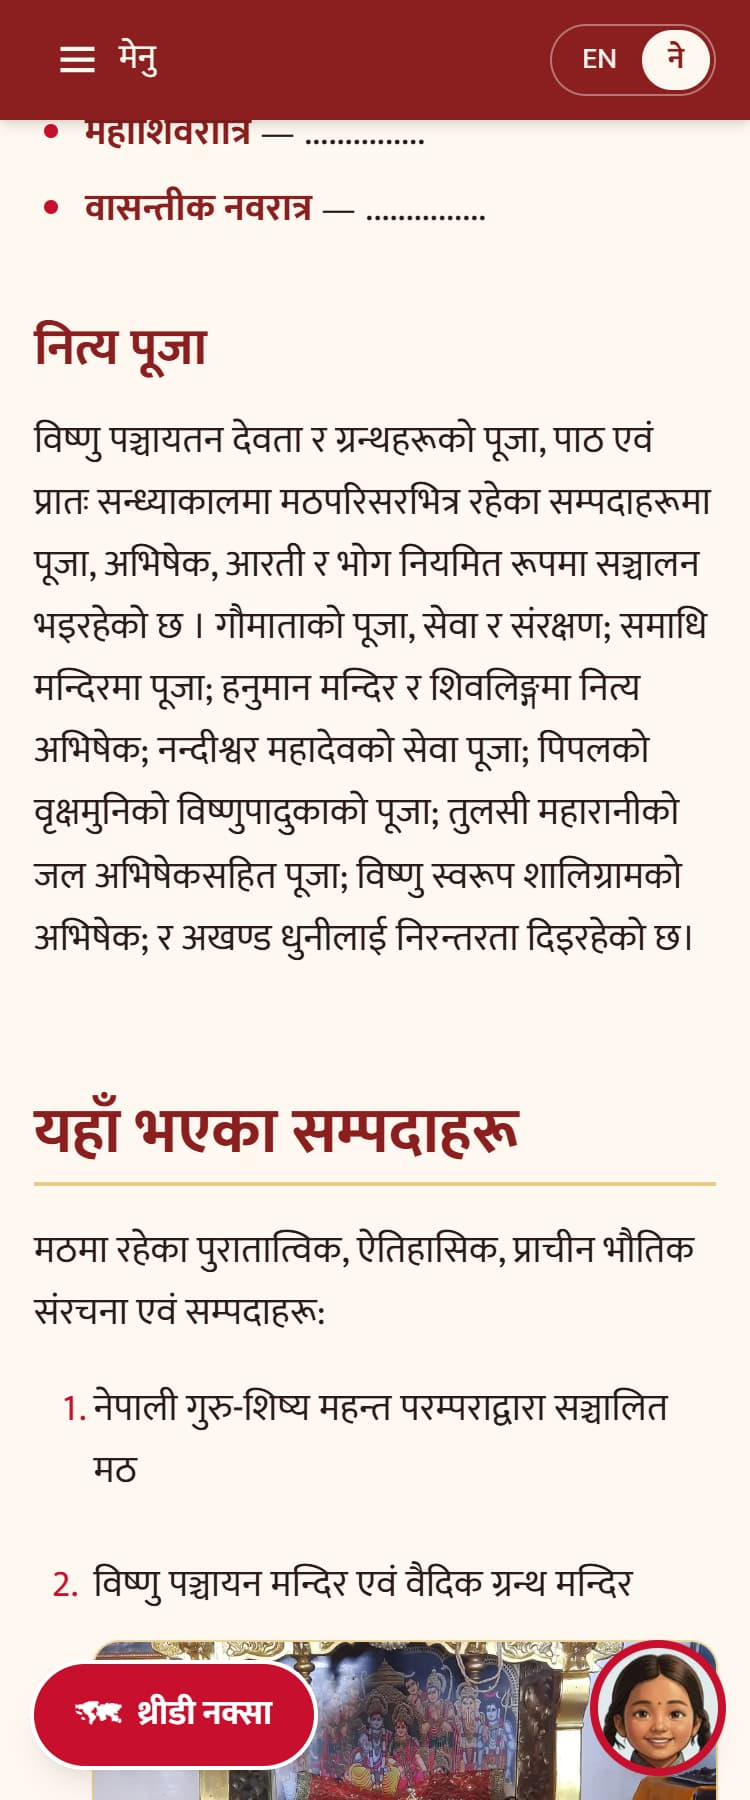
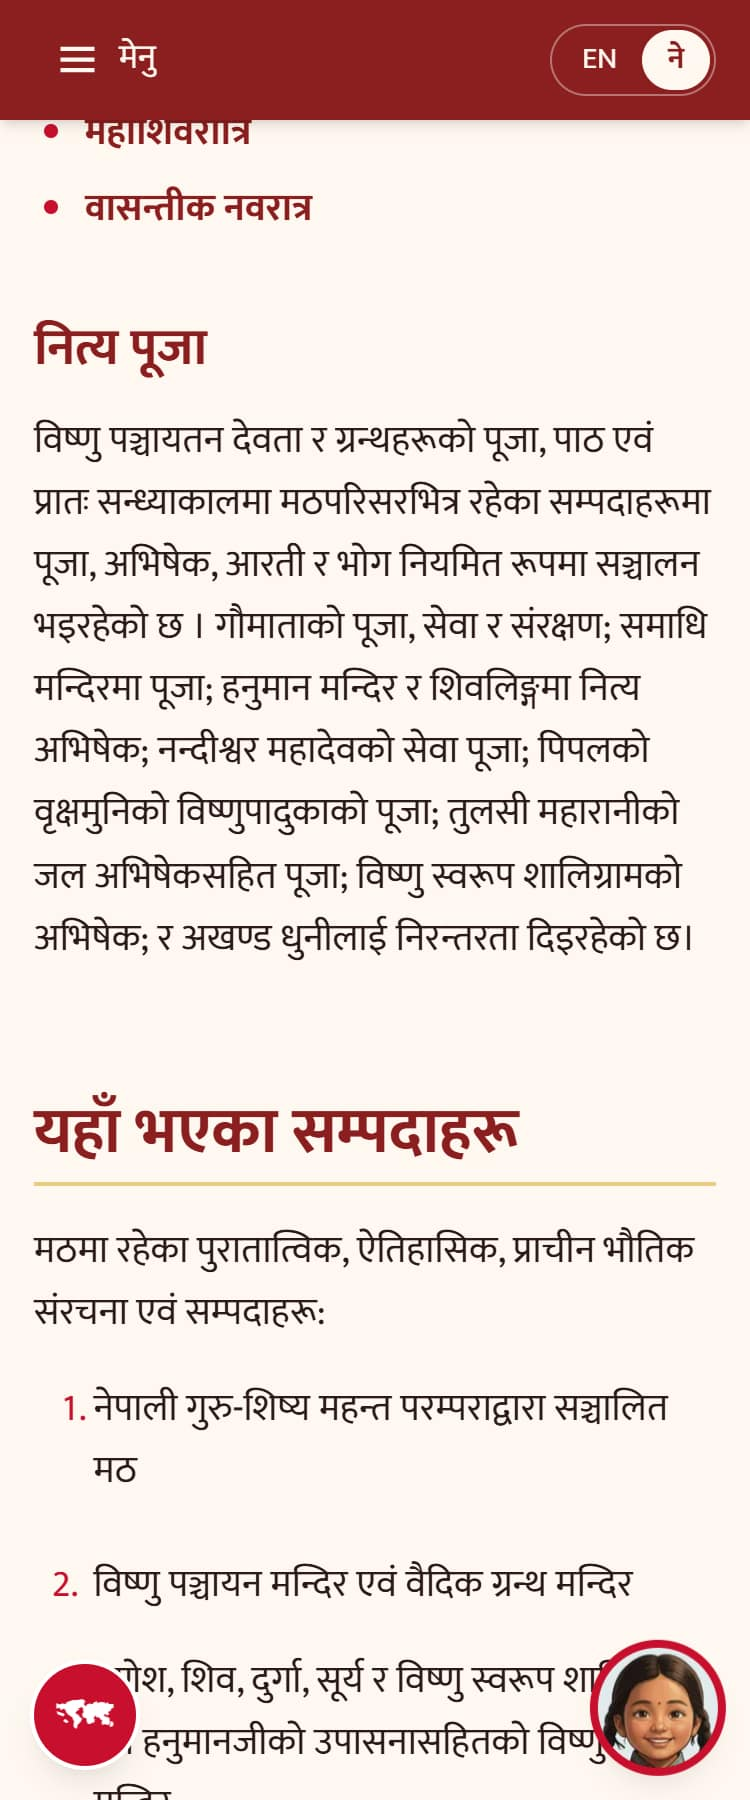
Heritage list descriptions, dot-placeholder check, ward illustration, alignment fixes, small 3D Map button
- Heritage list ("यहाँ भएका सम्पदाहरू" / "The Heritage Here"):
  - items 2–9 show their photo's gallery description under the title,
    word for word in the page language;
  - item 11 is title only (its photo's description doesn't clearly
    match), via `"description": false` in content/section-photos.json;
  - the Tulsi Math keeps its sub-shrines under the description;
  - photo tops are level with the titles.
- Festivals: Krishna Ashtami, Mahashivaratri and Vasantik Navaratri show
  their name only; the "………" descriptions are removed, on instruction.
- Dot placeholders ("………", "....", a lone "…") now fail check-content
  and verify-output (scripts/dot-placeholders.ts). npm run dev is
  unaffected.
- Home: the ward illustration (raw-data wardlogo1.png, via
  optimize-images; ward.json → illustration, EN/NE alt) beside the
  About Ward No. 16 text from 768 px, below it on phones.
- Alignment:
  - the "Other heritage" section now matches the home sections
    (py-14 md:py-20);
  - the map page uses the same page padding as gallery and contact;
  - the map sidebar text is back on the content edge.
  The audit reports 0 issues on all pages, at 375/768/1440, EN + NE.
- 3D Map button: a round 3rem icon on phones (label kept as its
  accessible name), a compact pill from 768 px.

Checked: typecheck, lint, strict `npm run build` + verify-output.
Browser checks 67/67, no page errors. Screenshots:
docs/screenshots/heritage-photos/.

Changed region(s): [[0.0613, 0.9022, 0.9813, 1.0], [0.92, 0.9022, 0.9507, 0.9333]]

diff --git a/src/app/[lang]/page.tsx b/src/app/[lang]/page.tsx
@@ -11,7 +11,7 @@ import SectionDivider from "@/components/SectionDivider";
 import { getCredits, getHeritageList, getHomeConfig, getWard } from "@/lib/content";
 import { naniCreditText } from "@/lib/credits";
 import { byCount, getDictionary, isLocale, siteNameList } from "@/lib/i18n";
-import { coverImage, findSiteImage, type SiteImage } from "@/lib/images";
+import { coverImage, findSiteImage, imageSet, type SiteImage } from "@/lib/images";
 import type { Heritage } from "@/types/heritage";
 
 const GALLERY_PREVIEW_COUNT = 6;
@@ -53,6 +53,7 @@ export default async function HomePage({ params }: PageProps<"/[lang]">) {
     coverImage(heritages[0]);
   const preview = galleryPreview(home.galleryPreview, heritages);
   const credits = getCredits();
+  const illustration = ward.illustration ? imageSet(ward.illustration.files) : null;
   // "Nani character by …"; null in production builds until the creator is set in content/credits.json.
   const naniCredit = naniCreditText(credits, dict, lang);
 
@@ -76,8 +77,25 @@ export default async function HomePage({ params }: PageProps<"/[lang]">) {
       <SectionDivider />
 
       <HomeSection id="about" title={dict.home.aboutTitle} tone="sand">
-        {/* Text from the ward team; {sites} keeps draft sites out of production builds. */}
-        <p className="max-w-3xl text-lg">{fill(dict.home.aboutIntro)}</p>
+        {/* Text from the ward team; {sites} keeps draft sites out of production builds. The ward
+            illustration fills the space beside it from 768 px, and sits under it on phones. */}
+        <div className="grid gap-8 md:grid-cols-[minmax(0,1fr)_15rem] md:items-start lg:grid-cols-[minmax(0,48rem)_18rem] lg:justify-between">
+          <p className="text-lg">{fill(dict.home.aboutIntro)}</p>
+          {illustration && (
+            // eslint-disable-next-line @next/next/no-img-element -- static export: no image server
+            <img
+              src={illustration.src}
+              srcSet={illustration.srcSet}
+              sizes="(min-width: 64rem) 18rem, (min-width: 48rem) 15rem, 18rem"
+              width={illustration.width}
+              height={illustration.height}
+              alt={ward.illustration?.alt[lang] ?? ""}
+              loading="lazy"
+              decoding="async"
+              className="mx-auto w-full max-w-72 rounded-xl shadow-sm ring-1 ring-gold/40 md:mx-0"
+            />
+          )}
+        </div>
         <dl className="mt-8 grid gap-4 sm:grid-cols-2 lg:grid-cols-4">
           {[
             { term: dict.home.aboutMunicipality, value: ward.city[lang] },

diff --git a/src/lib/rehype-section-photos.ts b/src/lib/rehype-section-photos.ts
@@ -8,6 +8,8 @@ export interface SectionPhoto {
   width: number;
   height: number;
   alt: string;
+  /** Shown under the item's title: the photo's gallery description (null = title only). */
+  description: string | null;
   /** Where the photo links to (the site's photos in the gallery). */
   href: string;
 }
@@ -24,7 +26,7 @@ const SIZES = "(min-width: 48rem) 18rem, 100vw";
  *
  *   <li class="has-photo">
  *     <div class="item-row">
- *       <div class="item-text">…the item's own text…</div>
+ *       <div class="item-text">…the item's title… <p class="item-desc">…description…</p> …sub-list…</div>
  *       <a class="item-photo" href="…"><img …></a>
  *     </div>
  *   </li>
@@ -88,7 +90,19 @@ function wrap(li: Element, photo: SectionPhoto) {
     properties: { className: ["item-photo"], href: photo.href },
     children: [image],
   };
-  const text: Element = { type: "element", tagName: "div", properties: { className: ["item-text"] }, children: li.children };
+  // The description goes right under the title: before a nested list (the Tulsi Math's sub-shrines), else at the end.
+  const content = [...li.children];
+  if (photo.description) {
+    const desc: Element = {
+      type: "element",
+      tagName: "p",
+      properties: { className: ["item-desc"] },
+      children: [{ type: "text", value: photo.description }],
+    };
+    const nested = content.findIndex((child) => child.type === "element" && (child.tagName === "ul" || child.tagName === "ol"));
+    content.splice(nested < 0 ? content.length : nested, 0, desc);
+  }
+  const text: Element = { type: "element", tagName: "div", properties: { className: ["item-text"] }, children: content };
   const row: Element = { type: "element", tagName: "div", properties: { className: ["item-row"] }, children: [text, link] };
   li.properties = { ...li.properties, className: ["has-photo"] };
   li.children = [row] as ElementContent[];

diff --git a/scripts/dot-placeholders.ts b/scripts/dot-placeholders.ts
@@ -1,0 +1,42 @@
+/**
+ * Runs of dots used as placeholders, e.g. a festival description written as "………" or "....".
+ * Used by check-content (content files) and verify-output (built pages), so the strict build fails
+ * until they are filled in; `npm run dev` runs neither, so dev builds still work.
+ *
+ * A normal ellipsis at the end of text ("Type your question…", "Loading map…") is fine.
+ */
+const PATTERNS: { re: RegExp; what: string }[] = [
+  { re: /\.{4,}/, what: "four or more dots" },
+  { re: /…\s*…/, what: "two or more ellipsis characters" },
+  // "…" or "..." alone as the content of a field or list item: after a dash, colon, bar, opening
+  // quote or list bullet, with nothing but closing punctuation after it.
+  { re: /(?:^\s*(?:[-*]|\d+\.)\s+|[—–:|]\s*|"\s*)(?:\.{3}|…)\s*["',]?\s*$/, what: "a lone ellipsis as content" },
+];
+
+export interface DotPlaceholder {
+  line: number;
+  what: string;
+  text: string;
+}
+
+export function findDotPlaceholders(text: string): DotPlaceholder[] {
+  const found: DotPlaceholder[] = [];
+  text.split(/\r?\n/).forEach((line, i) => {
+    for (const { re, what } of PATTERNS) {
+      if (re.test(line)) {
+        found.push({ line: i + 1, what, text: line.trim().slice(0, 100) });
+        break;
+      }
+    }
+  });
+  return found;
+}
+
+/** The visible text of a built HTML page, one block per line (scripts, styles and tags removed). */
+export function htmlText(html: string): string {
+  return html
+    .replace(/<(script|style)\b[\s\S]*?<\/\1>/gi, "")
+    .replace(/<\/(p|li|h[1-6]|div|td|th|dd|dt|figcaption|span|a|button)>/gi, "\n")
+    .replace(/<[^>]+>/g, "")
+    .replace(/&nbsp;/g, " ");
+}

diff --git a/src/components/MapButton.tsx b/src/components/MapButton.tsx
@@ -10,7 +10,11 @@ interface MapButtonProps {
   label: string;
 }
 
-/** Floating "🗺 3D Map" button, bottom-left on every page (swapped with Nani, who is bottom-right; hidden on the map page itself). */
+/**
+ * Floating "🗺 3D Map" button, bottom-left on every page (swapped with Nani, who is bottom-right; hidden on the
+ * map page itself). Kept small so it covers little text: a 48 px round icon on phones (the label stays as its
+ * accessible name), a compact pill with the label from 768 px.
+ */
 export default function MapButton({ lang, label }: MapButtonProps) {
   const pathname = usePathname();
   if (pathname.startsWith(`/${lang}/map`)) return null;
@@ -18,11 +22,11 @@ export default function MapButton({ lang, label }: MapButtonProps) {
   return (
     <Link
       href={`/${lang}/map/`}
-      className="fixed bottom-4 left-[max(1rem,env(safe-area-inset-left))] z-30 flex items-center gap-2 rounded-full bg-crimson px-5 py-3 font-bold text-white shadow-lg ring-2 ring-white hover:bg-brick md:bottom-6 md:left-[max(1.5rem,env(safe-area-inset-left))]"
+      className="fixed bottom-4 left-[max(1rem,env(safe-area-inset-left))] z-30 flex size-12 items-center justify-center rounded-full bg-crimson text-xl font-bold text-white shadow-lg ring-2 ring-white hover:bg-brick md:bottom-6 md:left-[max(1.5rem,env(safe-area-inset-left))] md:size-auto md:gap-1.5 md:px-3.5 md:py-2 md:text-sm"
       style={{ marginBottom: "env(safe-area-inset-bottom)" }}
     >
       <span aria-hidden="true">🗺</span>
-      {label}
+      <span className="sr-only md:not-sr-only">{label}</span>
     </Link>
   );
 }

diff --git a/scripts/verify-output.ts b/scripts/verify-output.ts
@@ -5,7 +5,8 @@
  *    are already left out by src/lib/content.ts, but public/ is copied into out/
  *    as-is, so delete out/images/<draft-slug>/. Then fail if a draft site's slug
  *    or name still appears anywhere in out/.
- * 2. Placeholders: fail if "[PLACEHOLDER", "[TODO" or an unfilled "{person:" credit token
+ * 2. Placeholders: fail if "[PLACEHOLDER", "[TODO", runs of placeholder dots in a page's visible text
+ *    (scripts/dot-placeholders.ts) or an unfilled "{person:" credit token
  *    (content/credits.json → people) appears anywhere in out/ (for example dev-only filler
  *    text that slipped into a production build).
  * 3. Image metadata: fail if any published image still carries EXIF, XMP or text
@@ -14,6 +15,8 @@
 import fs from "node:fs";
 import path from "node:path";
 import matter from "gray-matter";
+
+import { findDotPlaceholders, htmlText } from "./dot-placeholders";
 
 const HERITAGE_DIR = path.join("content", "heritage");
 const OUT_DIR = "out";
@@ -97,6 +100,11 @@ for (const file of listFiles(OUT_DIR)) {
   const text = fs.readFileSync(file, "utf8");
   for (const marker of MARKERS) {
     if (text.includes(marker)) findings.push(`${file}: contains "${marker}"`);
+  }
+  if (file.endsWith(".html")) {
+    for (const dots of findDotPlaceholders(htmlText(text))) {
+      findings.push(`${file}: placeholder dots (${dots.what}): ${dots.text}`);
+    }
   }
   for (const { needles } of drafts) {
     for (const needle of needles) {

diff --git a/src/lib/content.ts b/src/lib/content.ts
@@ -117,7 +117,9 @@ function sectionPhotosFor(
   const photos: SectionPhotos = {};
   for (const [section, items] of Object.entries(getSectionPhotos()[slug] ?? {})) {
     photos[section] = {};
-    for (const [number, src] of Object.entries(items)) {
+    for (const [number, setting] of Object.entries(items)) {
+      const src = typeof setting === "string" ? setting : setting.photo;
+      const describe = typeof setting === "string" || setting.description;
       const entry = gallery.find((image) => image.src === src);
       if (!entry) {
         if (fullGallery.some((image) => image.src === src)) continue; // removed by photo consent
@@ -125,7 +127,13 @@ function sectionPhotosFor(
       }
       const image = plainImage(src);
       if (!image) throw new Error(`content/section-photos.json: ${src} has not been built (npm run optimize-images)`);
-      photos[section][Number(number)] = { ...image, alt: entry.alt, href: `/${lang}/gallery/?site=${slug}` };
+      photos[section][Number(number)] = {
+        ...image,
+        alt: entry.alt,
+        // The same gallery text, shown under the item's title (unless switched off for this item).
+        description: describe ? entry.alt : null,
+        href: `/${lang}/gallery/?site=${slug}`,
+      };
     }
   }
   return photos;

diff --git a/scripts/optimize-images.ts b/scripts/optimize-images.ts
@@ -217,6 +217,24 @@ async function optimizeNaniFigure(): Promise<void> {
   console.log(`nani figure: ${figure.heights.join(", ")} px tall (${right - left + 1}×${bottom - top + 1} source)`);
 }
 
+/**
+ * The ward illustration (raw-data wardlogo1.png: "Kathmandu Metropolitan City … Ward-16"), shown beside
+ * the About Ward No. 16 text on the home page. WebP at a few widths, metadata stripped.
+ * → public/images/logo/ward-illustration-<width>.webp
+ */
+async function optimizeWardIllustration(): Promise<void> {
+  const { source, widths } = manifest.wardIllustration;
+  const dir = path.join(OUT_DIR, "logo");
+  await fs.mkdir(dir, { recursive: true });
+  for (const width of widths) {
+    await sharp(path.join(RAW_DATA_DIR, source))
+      .resize({ width, withoutEnlargement: true })
+      .webp({ quality: 85 })
+      .toFile(path.join(dir, `ward-illustration-${width}.webp`));
+  }
+  console.log(`ward illustration: ${widths.join(", ")} px`);
+}
+
 async function main(): Promise<void> {
   try {
     await fs.access(RAW_DATA_DIR);
@@ -226,6 +244,7 @@ async function main(): Promise<void> {
   }
 
   await optimizeLogo();
+  await optimizeWardIllustration();
   await optimizeNani();
   await optimizeNaniFigure();
 

diff --git a/scripts/check-content.ts b/scripts/check-content.ts
@@ -5,7 +5,8 @@
  *   npm run check-content -- --allow-drafts  used by `npm run build:preview`
  *
  * Strict mode fails (exit code 1) if any file in content/ contains
- * "[PLACEHOLDER" or "[TODO", or a heritage file has `draft: true`.
+ * "[PLACEHOLDER" or "[TODO", runs of dots used as placeholders ("………", "....", a lone "…"; see
+ * scripts/dot-placeholders.ts), or a heritage file has `draft: true`.
  * With --allow-drafts, files with `draft: true` are skipped (the preview build
  * leaves those sites out entirely), but every other file must still be clean.
  *
@@ -16,6 +17,8 @@
 import fs from "node:fs";
 import path from "node:path";
 import matter from "gray-matter";
+
+import { findDotPlaceholders } from "./dot-placeholders";
 
 const CONTENT_DIR = "content";
 const HERITAGE_DIR = path.join(CONTENT_DIR, "heritage");
@@ -50,6 +53,9 @@ function checkMarkers(file: string): Problem[] {
         }
       }
     });
+  for (const dots of findDotPlaceholders(fs.readFileSync(file, "utf8"))) {
+    problems.push({ file, line: dots.line, message: `placeholder dots (${dots.what}): ${dots.text}` });
+  }
   if (isDraft(file)) problems.push({ file, message: "has draft: true" });
   return problems;
 }

diff --git a/src/types/site.ts b/src/types/site.ts
@@ -41,9 +41,15 @@ export type Credits = z.infer<typeof creditsSchema>;
  * (site slug → section id → list item number → gallery photo), e.g. the "यहाँ भएका सम्पदाहरू" list.
  * Each photo must be in that site's gallery; its alt text comes from the gallery in each language.
  */
+const sectionPhoto = z.union([
+  // Just the photo: its gallery description (alt text) is also shown under the item's title.
+  z.string().startsWith("/images/"),
+  // `description: false` when the photo's description doesn't clearly match the item.
+  z.object({ photo: z.string().startsWith("/images/"), description: z.boolean() }),
+]);
 export const sectionPhotosSchema = z.record(
   z.string().regex(/^[a-z0-9-]+$/),
-  z.record(z.string().regex(/^[a-z0-9-]+$/), z.record(z.string().regex(/^[1-9]\d*$/), z.string().startsWith("/images/"))),
+  z.record(z.string().regex(/^[a-z0-9-]+$/), z.record(z.string().regex(/^[1-9]\d*$/), sectionPhoto)),
 );
 export type SectionPhotosConfig = z.infer<typeof sectionPhotosSchema>;
 

diff --git a/src/lib/images.ts b/src/lib/images.ts
@@ -39,6 +39,18 @@ function srcSetFor(src: string): string {
     .join(", ");
 }
 
+/** One image given as its sized files (e.g. the ward illustration): the largest is the default `src`. */
+export function imageSet(files: string[]): { src: string; srcSet: string; width: number; height: number } {
+  const sized = files.map((file) => ({ file, ...sizeOf(file) }));
+  const largest = sized.reduce((a, b) => (b.width > a.width ? b : a));
+  return {
+    src: largest.file,
+    srcSet: sized.map(({ file, width }) => `${file} ${width}w`).join(", "),
+    width: largest.width,
+    height: largest.height,
+  };
+}
+
 /** An image that is not a site photo (e.g. the map preview), or null if it has not been built. */
 export function plainImage(src: string): { src: string; srcSet: string; width: number; height: number } | null {
   if (!fs.existsSync(path.join(PUBLIC_DIR, src))) return null;

diff --git a/src/app/[lang]/heritage/[slug]/page.tsx b/src/app/[lang]/heritage/[slug]/page.tsx
@@ -151,7 +151,8 @@ export default async function HeritagePage({ params }: PageProps<"/[lang]/herita
 
       {others.length > 0 && (
         <section aria-labelledby="other-heritage-title" className="bg-sand">
-          <div className="mx-auto max-w-6xl px-4 py-14">
+          {/* Same vertical rhythm as the home page sections (HomeSection). */}
+          <div className="mx-auto max-w-6xl px-4 py-14 md:py-20">
             <h2 id="other-heritage-title" className="mb-8 text-3xl font-bold">
               {byCount(t.otherHeritage, others.length)}
             </h2>

diff --git a/src/app/[lang]/map/page.tsx b/src/app/[lang]/map/page.tsx
@@ -30,7 +30,7 @@ export default async function MapPage({ params }: PageProps<"/[lang]/map">) {
   const props = { places, route, labels: dict.map, lang, preview: plainImage(MAP_PREVIEW) };
 
   return (
-    <div className="map-page mx-auto max-w-6xl px-4 py-8 md:py-10">
+    <div className="map-page mx-auto max-w-6xl px-4 py-10 md:py-14">
       <h1 className="text-4xl font-bold md:text-5xl">{dict.map.title}</h1>
       <div aria-hidden="true" className="mt-3 mb-4 h-1 w-16 rounded-full bg-gold" />
       <p className="mb-6 max-w-3xl text-lg">{dict.map.intro}</p>
